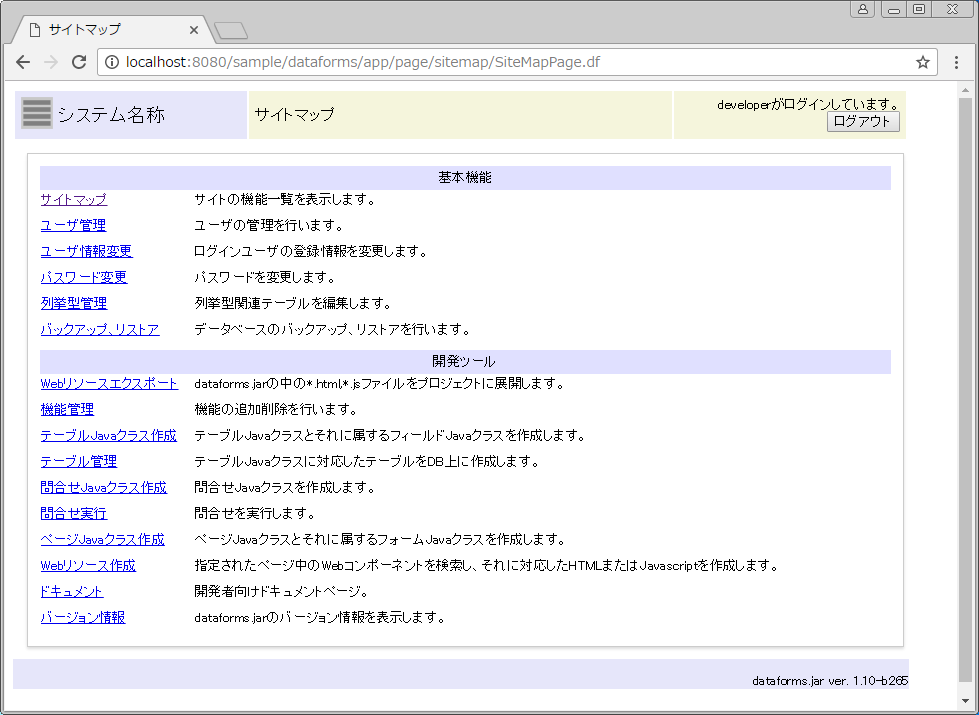
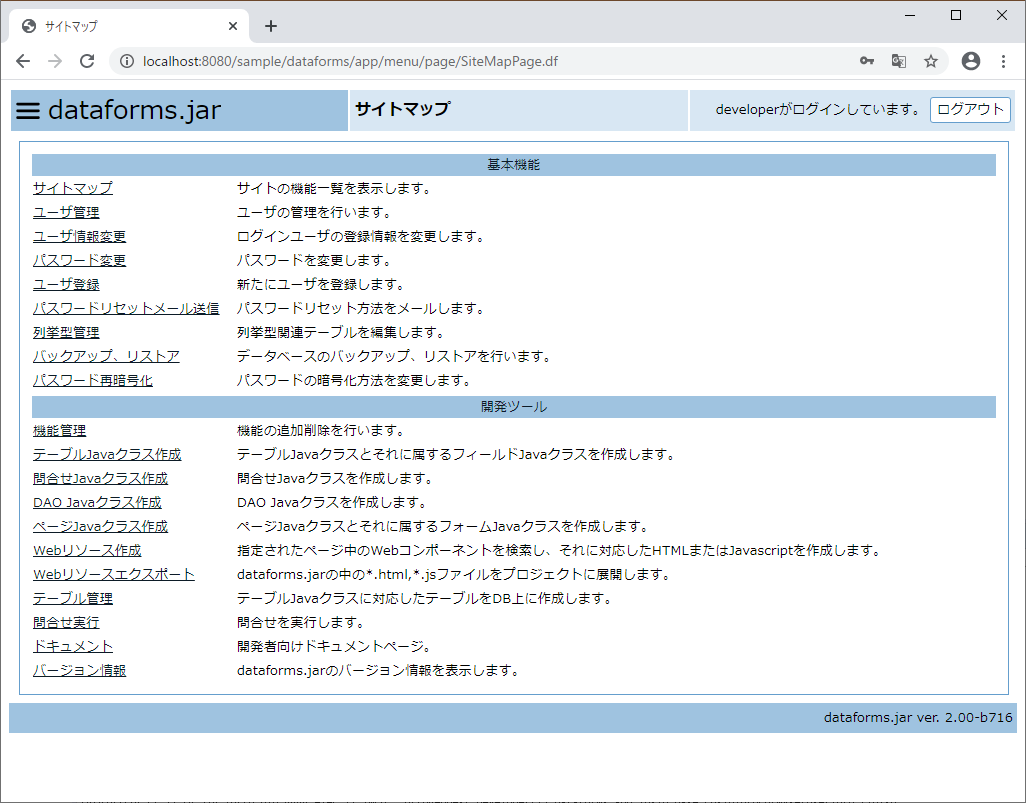
ドキュメントの修正。

diff --git a/HTML/META-INF/resources/doc/tutorial2/index.html b/HTML/META-INF/resources/doc/tutorial2/index.html
@@ -11,15 +11,15 @@
 		<h1><span>3.</span>ページの作成</h1>
 		<h2>開発ツールについて</h2>
 		<p>
-			dataforms.jarでは、Javaクラスの作成から始めます。
+			dataforms2.jarでは、Javaクラスの作成から始めます。
 			例えば、データベースのテーブルの場合、dataforms.dao.Tableから派生したテーブルクラスを作成します。
 			そのテーブルクラスを元に、データベース中にテーブルを作成します。
 			またHTMLやJavascriptの場合、フォームを配置したページJavaクラスを作成し、そのJavaクラスを元にHTMLやJavascriptを作成します。
 			これらのJavaクラスの作成やデータベーステーブル、HTML、Javascriptの作成は、全て開発ツールで作成することができます。
 		</p>
 		<p class="topic">
-			開発ツール自体も、dataforms.jarで作成されたWebアプリケーションです。
-			つまり開発ツールに実装されているユーザインターフェースは、dataforms.jarで標準的にサポートされています。
+			開発ツール自体も、dataforms2.jarで作成されたWebアプリケーションです。
+			つまり開発ツールに実装されているユーザインターフェースは、dataforms2.jarで標準的にサポートされています。
 		</p>
 		<p>
 			開発ツールを使うには、「データベースの初期設定」の際に登録した開発者ユーザでログインする必要があります。
@@ -43,14 +43,6 @@
 			<tbody>
 				<tr>
 					<th>
-						Webリソースエクスポート
-					</th>
-					<td>
-						dataforms.jarの中の*.html,*.css,*.js等のファイルをエクスポートします。
-					</td>
-				</tr>
-				<tr>
-					<th>
 						機能管理
 					</th>
 					<td>
@@ -67,14 +59,6 @@
 				</tr>
 				<tr>
 					<th>
-						テーブル管理
-					</th>
-					<td>
-						テーブルJavaクラスに対応したテーブルをDB上に作成します。
-					</td>
-				</tr>
-				<tr>
-					<th>
 						問合せJavaクラス作成
 					</th>
 					<td>
@@ -83,10 +67,10 @@
 				</tr>
 				<tr>
 					<th>
-						問合せJava実行
+						DAO Javaクラス作成
 					</th>
 					<td>
-						問合せクラスまたはSQLのselect文を実行します。
+						DAO(Data access object) Javaクラスを作成します。
 					</td>
 				</tr>
 				<tr>
@@ -105,8 +89,63 @@
 						指定されたページ中のWebコンポーネントを検索し、それに対応したHTMLまたはJavascriptを作成します。
 					</td>
 				</tr>
+				<tr>
+					<th>
+						Webリソースエクスポート
+					</th>
+					<td>
+						dataforms2.jarの中の*.html,*.css,*.js等のファイルをエクスポートします。
+					</td>
+				</tr>
+				<tr>
+					<th>
+						テーブル管理
+					</th>
+					<td>
+						テーブルJavaクラスに対応したテーブルをDB上に作成します。
+					</td>
+				</tr>
+				<tr>
+					<th>
+						問合せ実行
+					</th>
+					<td>
+						問合せを実行します。
+					</td>
+				</tr>
 			</tbody>
 		</table>
+		<h2>開発の流れ</h2>
+		<p>
+			上記の開発ツールを使用した開発の流れを以下に示します。
+		</p>
+		<ol>
+			<li>
+				「機能管理」を使用して、Javaのパッケージを登録。
+			</li>
+			<li>
+				「テーブルJavaクラス作成」を使用して、テーブルのレイアウトを作成します。<br/>
+				dataforms.dao.Tableから派生したテーブルクラスのソースが作成されます。
+			</li>
+			<li>
+				必要に応じて「問合せJavaクラス作成」を使用して、問合せクラスを作成します。<br/>
+				dataforms.dao.Queryから派生した問合せクラスを作成します。複数のテーブルを結合した問合せを作成することができます。
+			</li>
+			<li>
+				「DAO Javaクラス作成」を使用して、問合せクラスを作成します。<br/>
+				dataforms.dao.QuerySetDaoから派生した問合せクラスを作成します。ページで使用する複数の問合せをまとめたクラスになります。
+			</li>
+			<li>
+				「ページJavaクラス作成」を使用して、ページJavaクラスとそれに配置するフォームJavaクラスを作成します。
+			</li>
+			<li>
+				「Webリソース作成」を使用して、ページJavaクラスからページのHTMLを作成します。<br/>
+				「Webリソース作成」には各コンポーネントに対応したJavascriptファイルの作成機能もあるので、必要に応じてJavascriptファイルを作成します。
+			</li>
+			<li>
+				作成した各ソースを修正して独自の機能を作成します。
+			</li>
+		</ol>
 		<h2>ページの作成手順</h2>
 		<h3>ソースパスの設定</h3>
 		<p>
@@ -155,7 +194,7 @@
 		</div>
 		<h3>システム名称設定</h3>
 		<p>
-			dataforms.jarのMETA-INF/resourcesには、HTML,Javascript等のWebリソースが組み込まれています。
+			dataforms2.jarのMETA-INF/resourcesには、HTML,Javascript等のWebリソースが組み込まれています。
 			Servlet3.0では、jar中のMETA-INF/resources中に配置されたHTMLやJavascriptを、通常のWebリソースとしてアクセスすることができます。
 			sampleプロジェクトのWebContent内には、HTMLもJavascriptも存在しないのですが、以下のURLをアクセスすると、デフォルトレイアウトが表示されます。
 		</p>
@@ -168,7 +207,7 @@
 		</figure>
 		<!--
 		<p>
-			dataforms.jarの中のWEBリソースをカスタマイズするには、これらのファイルを「WEBリソースエクスポート」の機能でWebContent内に展開する必要があります。
+			dataforms2.jarの中のWEBリソースをカスタマイズするには、これらのファイルを「WEBリソースエクスポート」の機能でWebContent内に展開する必要があります。
 			システム名称を変更するには、メッセージリソースファイルをエクスポートし、それを編集します。
 		</p>
 		<figure>
@@ -176,7 +215,7 @@
 			<img src="expwebres.png" style="width:50%; height:50%;"/>
 		</figure>
 		<p>
-			dataforms.jarには/frame/messagesというパスにメッセージリソースが入っています。
+			dataforms2.jarには/frame/messagesというパスにメッセージリソースが入っています。
 			上の図では、ファイル名に"frame/messages"を指定して検索しています。
 			これらのメッセージリソースをエクスポートし、WebContent/frame/messages/ClientMessages.properties,ClientMessages_ja.properties中の
 			message.systemnameの内容を修正すれば、各ページに表示されるシステム名称を変更することができます。
@@ -201,7 +240,7 @@
 		</figure>
 		<h3>機能の登録</h3>
 		<p>
-			dataforms.jarの中には、既に「基本機能」と「開発ツール」という機能が入っています。
+			dataforms2.jarの中には、既に「基本機能」と「開発ツール」という機能が入っています。
 			機能はJavaのパッケージに対応し、そのパッケージの配下に各種クラスを作成していきます。
 			メニューはこの機能でグルーピングされます。
 			<figure>
@@ -262,7 +301,7 @@
 			同一テーブルの中に同じクラスのフィールドを配置する場合は、それぞれ別のフィールドIDを指定するようにしてください。
 		</p>
 		<p>
-			フィールド一覧の「クラス」には、dataforms.jar内に定義された既存のフィールドクラスを指定することもできますが、今回は全てのフィールドクラスを新規に作成しています。
+			フィールド一覧の「クラス」には、dataforms2.jar内に定義された既存のフィールドクラスを指定することもできますが、今回は全てのフィールドクラスを新規に作成しています。
 			各フィールドクラスを毎回作成するのは、面倒に感じるかもしれません。
 			しかし各種フィールドをクラス化しておくと、一気にフィールドの特性を変更することができるようになります。
 			例えば、今回作成したフィールドを複数のページに配置し、各ページが作成され後にフィールドに対する新たなバリデーションが必要になったとします。
@@ -465,7 +504,7 @@
 			<img src="samplepage3.png" style="width:50%; height:50%;"/>
 		</figure>
 		<p>
-			既存の開発では、確認画面も1つのページとして実装するケースが多かったのですが、dataforms.jarでは編集フォームの各フィールドを編集不可にすることで実現しています。
+			既存の開発では、確認画面も1つのページとして実装するケースが多かったのですが、dataforms2.jarでは編集フォームの各フィールドを編集不可にすることで実現しています。
 			そのため、確認画面用のHTMLを作成する必要はありません。
 		</p>
 		<p class="topic">

diff --git a/HTML/META-INF/resources/doc/introduction/index.html b/HTML/META-INF/resources/doc/introduction/index.html
@@ -6,18 +6,6 @@
 		<meta http-equiv="Cache-Control" content="no-cache">
 		<link type="text/css" href="../css/document.css" rel="stylesheet" />
 		<style type="text/css">
-			table {
-				border-collapse: collapse;
-				border-color: #aaaaaa;
-				border-width: lightgr;
-				border-style: solid;
-			}
-			table th,
-			table td {
-				border-color: #aaaaaa;
-				border-width: 1px;
-				border-style: solid;
-			}
 		</style>
 		<title>概要</title>
 	</head>

diff --git a/HTML/META-INF/resources/doc/css/document.css b/HTML/META-INF/resources/doc/css/document.css
@@ -13,6 +13,18 @@ table {
 	border : 0px;
 	margin-left: 40px;
 	margin-bottom: 20px;
+
+	border-collapse: collapse;
+	border-color: #aaaaaa;
+	border-width: lightgr;
+	border-style: solid;
+}
+
+table th,
+table td {
+	border-color: #aaaaaa;
+	border-width: 1px;
+	border-style: solid;
 }
 
 .filecaption {
